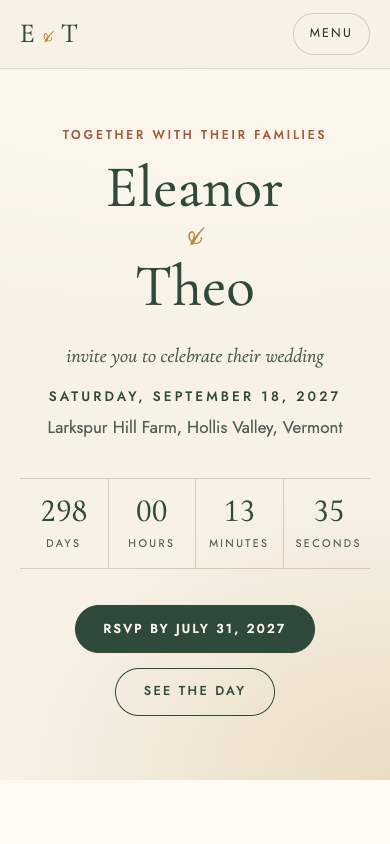
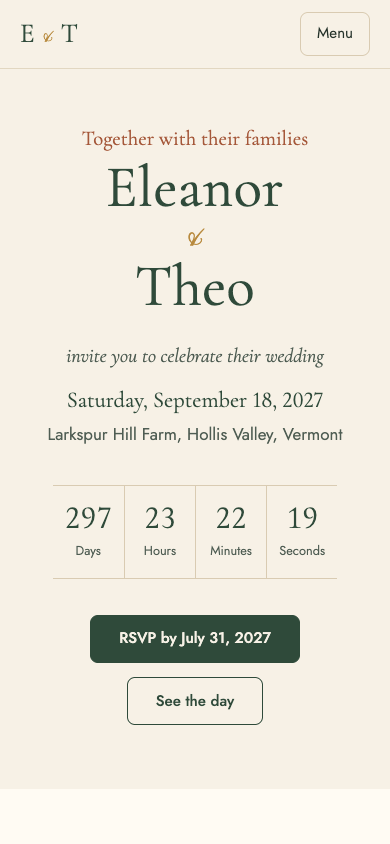
Unslop pass: sentence-case labels, no washes, one script ornament, calmer buttons and motion

diff --git a/src/styles/global.css b/src/styles/global.css
@@ -10,6 +10,7 @@
   --clay: #a5583a;
   --gold: #b88a3e;
   --line: #d9cbb2;
+  --sage-ink: #5a7050;
   --display: "Cormorant Garamond", "Iowan Old Style", Georgia, serif;
   --script: "Pinyon Script", "Snell Roundhand", cursive;
   --body: "Jost Variable", "Avenir Next", system-ui, sans-serif;
@@ -95,13 +96,12 @@ p {
 }
 
 .eyebrow {
-  font-family: var(--body);
-  text-transform: uppercase;
-  letter-spacing: 0.24em;
-  font-size: 0.75rem;
-  font-weight: 500;
+  font-family: var(--display);
+  font-size: 1.3rem;
+  line-height: 1.3;
+  font-weight: 400;
   color: var(--clay);
-  margin: 0 0 0.9rem;
+  margin: 0 0 0.5rem;
 }
 
 .section {
@@ -123,14 +123,6 @@ p {
   margin-top: 1rem;
 }
 
-.flourish {
-  display: block;
-  width: 120px;
-  height: 18px;
-  margin: 1.25rem auto 0;
-  color: var(--gold);
-}
-
 .button {
   display: inline-flex;
   align-items: center;
@@ -141,13 +133,14 @@ p {
   border: 1px solid var(--forest);
   background: var(--forest);
   color: var(--paper);
-  font: 500 0.8rem/1 var(--body);
-  letter-spacing: 0.18em;
-  text-transform: uppercase;
+  font: 500 0.95rem/1 var(--body);
   text-decoration: none;
-  border-radius: 999px;
+  border-radius: 8px;
   cursor: pointer;
-  transition: background 0.2s, color 0.2s;
+  transition:
+    background-color 0.16s cubic-bezier(0.22, 1, 0.36, 1),
+    border-color 0.16s cubic-bezier(0.22, 1, 0.36, 1),
+    color 0.16s cubic-bezier(0.22, 1, 0.36, 1);
 }
 
 .button:hover {
@@ -168,8 +161,10 @@ p {
 
 .js .reveal {
   opacity: 0;
-  transform: translateY(18px);
-  transition: opacity 0.9s ease, transform 0.9s ease;
+  transform: translateY(8px);
+  transition:
+    opacity 0.45s cubic-bezier(0.22, 1, 0.36, 1),
+    transform 0.45s cubic-bezier(0.22, 1, 0.36, 1);
 }
 
 .js .reveal.in {

diff --git a/UNSLOP.md b/UNSLOP.md
@@ -1,0 +1,35 @@
+# Unslop pass (November 24, 2026)
+
+Done with the unslop skill by Damir Sokolovsky (@heydamir), CC BY 4.0.
+
+## Audit
+
+Light slop: a designed invitation-style site (cream paper, forest, clay, gold; Cormorant Garamond, Jost, one script face). Signs found:
+
+- Uppercase tracked labels nearly everywhere in `src/pages/index.astro` and `src/styles/global.css`: eyebrows, nav links, menu button, every button, the date line, countdown units, schedule places, "Flying in" style heads, hotel "Book" links, registry links, the hashtag, RSVP form labels (`src/components/Rsvp.astro`)
+- Radial color washes on the hero and the RSVP section
+- The same gold flourish under every section heading (`Flourish.astro`, seven times), competing with the script ampersand
+- Script face used for the story years as well as the ampersand
+- Long, dark tinted drop shadows on the venue arch, gallery frames and RSVP card
+- Pill buttons, pill menu button and pill "Book" links
+- Slow scroll reveals (0.9s, 18px) on nearly every block; catch-all `ease` transitions
+- 600 weight on hotel names
+
+## Direction
+
+- Product: one couple's wedding site that tells guests the plan and collects RSVPs
+- Character: warm, unhurried, a little formal
+- World: a letterpress invitation on cotton paper; a Vermont farm in September, pressed leaves, gold ink
+- Moments: the couple's names with the countdown under them, and the venue arch with its hills
+- Signature: the gold script ampersand, used only between the two names (monogram, hero, footer)
+
+## Changes
+
+- Type: every label in sentence case with no tracking; eyebrows and the date set in Cormorant like an invitation line; lining figures for the date; hotel names at 500
+- Color: hero and RSVP washes removed; a darker sage (`--sage-ink`) so venue names read on paper
+- Details: buttons, menu, "Book" links and RSVP choices at 8px instead of pills; shadows small and soft
+- Signature: flourish dividers removed (component deleted) and story years in Cormorant, so the script ampersand is the one ornament
+- Motion: reveals shortened to 0.45s and 8px on one easing curve; named transitions only
+
+screenshot-2: The day (schedule timeline)
+screenshot-3: Venue and travel
